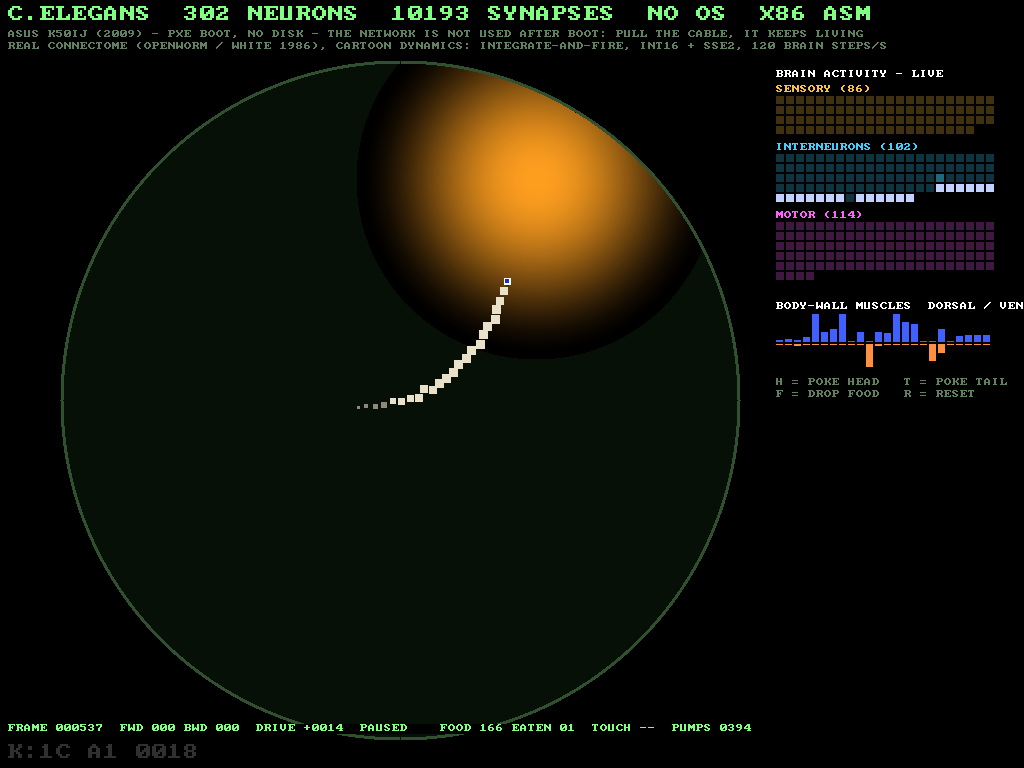
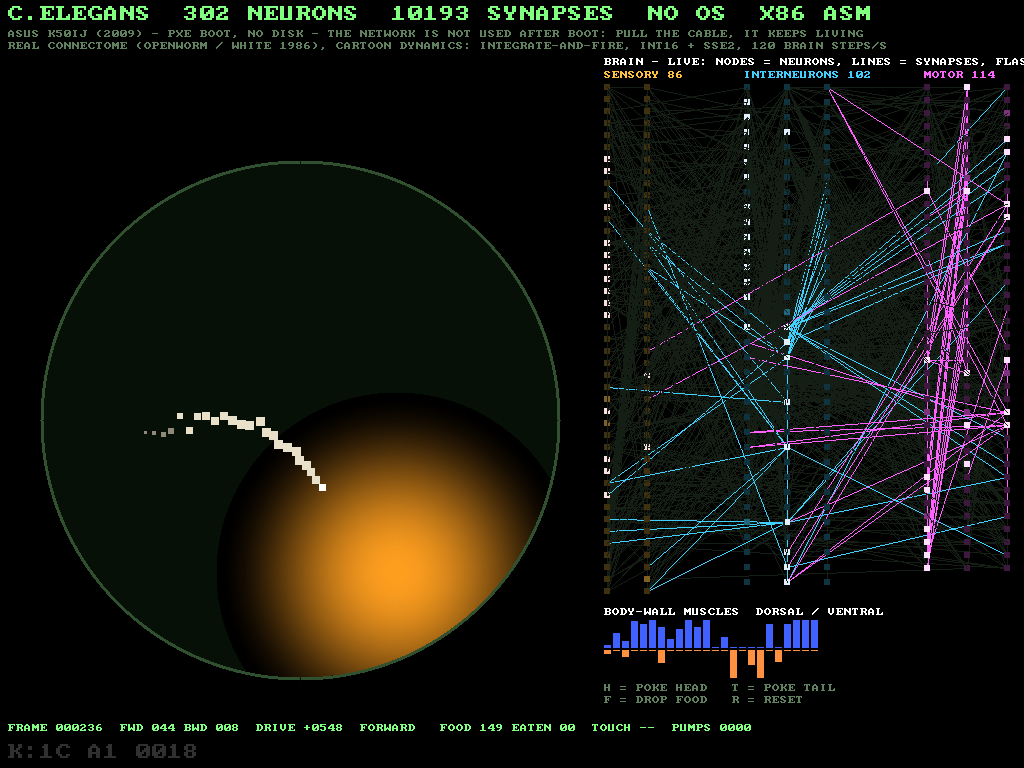
worm v3: the brain as a live network graph - layered nodes, strong synapses as background lines, a neuron's synapses flash when it fires (Bresenham lines, BG restore); dish shrunk to the left half

diff --git a/worm/wormenv.py b/worm/wormenv.py
@@ -25,7 +25,7 @@ from wormsim import Brain, sat16
 NSEG = 24
 SEG = 9                 # px between body points
 W, H = 1024, 768
-DISH_CX, DISH_CY, DISH_R = 400, 400, 340      # petri dish (the right side holds the raster)
+DISH_CX, DISH_CY, DISH_R = 300, 420, 260      # petri dish (the right side holds the raster)
 FOOD_R = 180            # food glow radius (px)
 EAT_R = 24
 TOUCH_FRAMES = 120
@@ -94,7 +94,7 @@ class Worm:
 
     def reset(self):
         self.b.reset_state()
-        self.x = [(DISH_CX - 140 - i * SEG) << 8 for i in range(NSEG)]   # Q8 positions, head = 0
+        self.x = [(DISH_CX - 40 - i * SEG) << 8 for i in range(NSEG)]    # Q8 positions, head = 0
         self.y = [DISH_CY << 8] * NSEG
         self.heading = 0            # angle units, 0 = +x (facing right), 64 = +y (down)
         self.phase = 0
@@ -102,7 +102,7 @@ class Worm:
         self.bend = 0               # smoothed dorsal-ventral head muscle
         self.touch_head = 0
         self.touch_tail = 0
-        self.food_x, self.food_y = DISH_CX + 150, DISH_CY - 110
+        self.food_x, self.food_y = DISH_CX + 120, DISH_CY - 100
         self.food_on = 1
         self.food_amount = FOOD_AMOUNT
         self.c_now = 0
@@ -292,7 +292,7 @@ class Worm:
             fy = (self.y[0] >> 8) + ((200 * sin_q14(self.heading)) >> 14)
         else:
             r = self.rand()
-            fx = DISH_CX - 220 + (r % 440); fy = DISH_CY - 220 + ((r >> 16) % 440)
+            fx = DISH_CX - 160 + (r % 320); fy = DISH_CY - 160 + ((r >> 16) % 320)
         # keep it well inside the dish
         dx, dy = fx - DISH_CX, fy - DISH_CY
         d = isqrt(dx * dx + dy * dy)

diff --git a/worm/SHOOTING.md b/worm/SHOOTING.md
@@ -19,8 +19,10 @@
 - 顶行 HUD：`C.ELEGANS 302 NEURONS 10193 SYNAPSES NO OS X86 ASM`，
   第二行说明机器与"拔网线照样活"，第三行说明"真实连接组 + 漫画版动力学"。
 - 左：培养皿（圆形琼脂），线虫 24 体节、正弦行波爬行、淡绿尾迹，食物是橙色发光团。
-- 右上 `BRAIN ACTIVITY - LIVE`：302 个神经元实时状态点阵，按 感觉(86)/中间(102)/运动(114) 分三块，
-  发放时变白闪、膜电位高时半亮、静息暗。**这是真实仿真状态，不是动画**。
+- 右侧 `BRAIN LIVE`：302 个神经元画成真正的网络图——三组纵列（感觉 86 / 中间神经元 102 / 运动 114），
+  背景暗线是连接组里较强的突触（|w|≥8，约 1800 条），某个神经元发放时它的出边按组颜色闪亮一帧
+  （感觉=橙、中间=青、运动=洋红），节点发放变白、膜电位高半亮。**全部是真实仿真状态，不是动画**。
+  戳头时能看到青色（中间神经元）连线先炸开、随后洋红（运动）一片。
 - 右中：24 节体壁肌 背侧(蓝,向上)/腹侧(橙,向下) 激活条。
 - 左下状态行：`FRAME / FWD BWD(前进/倒退运动神经元发放数) / DRIVE / FORWARD|REVERSE|PAUSED / FOOD(头部浓度) / EATEN / TOUCH H T`。
 - 最底 `K:<8042状态><扫描码><计数>`：键盘诊断行，按键没反应就拍这一行。
@@ -39,8 +41,8 @@
 | # | 节拍 | 操作 | 拍多久 | 画面重点 |
 |---|---|---|---|---|
 | 1 | 开机直进线虫 | 开机（或 `K!` 远程重启） | 从黑屏拍到皿出现，约 15 s | 启动画面 `C. ELEGANS / 302 NEURONS - NO OS - BARE METAL` 停 ~2 s，然后直接进培养皿 |
-| 2 | 自由爬行 | 不按键 | 8 s | 行波、尾迹、右侧点阵持续闪、肌肉条随体波起伏 |
-| 3 | 戳头→倒退 | 按一下 `H` | 5 s | 黄色手指出现 → 感觉块(上)先亮 → 中间块 → 运动块大面积亮 → 状态行变 `REVERSE`，线虫倒退、随后转身 |
+| 2 | 自由爬行 | 不按键 | 8 s | 身体随肌肉弯曲、尾迹、右侧网络图连线持续闪、肌肉条起伏 |
+| 3 | 戳头→倒退 | 按一下 `H` | 5 s | 黄色手指出现 → 网络图青色连线炸开 → 洋红运动连线大面积亮 → 状态行变 `REVERSE`，线虫倒退、随后转身 |
 | 4 | 戳尾→前冲 | 等它恢复前进后按 `T` | 5 s | 状态行 `FWD` 数字跳高，不倒退 |
 | 5 | 放食物→进食 | 按 `F` | 10–15 s | 橙色光团出现在前方，线虫爬进核心减速停下，状态行 `PAUSED`、头部蓝点泵动、`PUMPS` 上涨，光团消失，`EATEN 01`（扬声器短啁啾） |
 | 6 | 拔网线照活 | 手伸到机器后面**拔掉网线**，镜头跟过去再回到屏幕 | 10 s | 画面完全不受影响：内核开机后不再碰网络。可再按一次 `H` 证明还在响应 |
